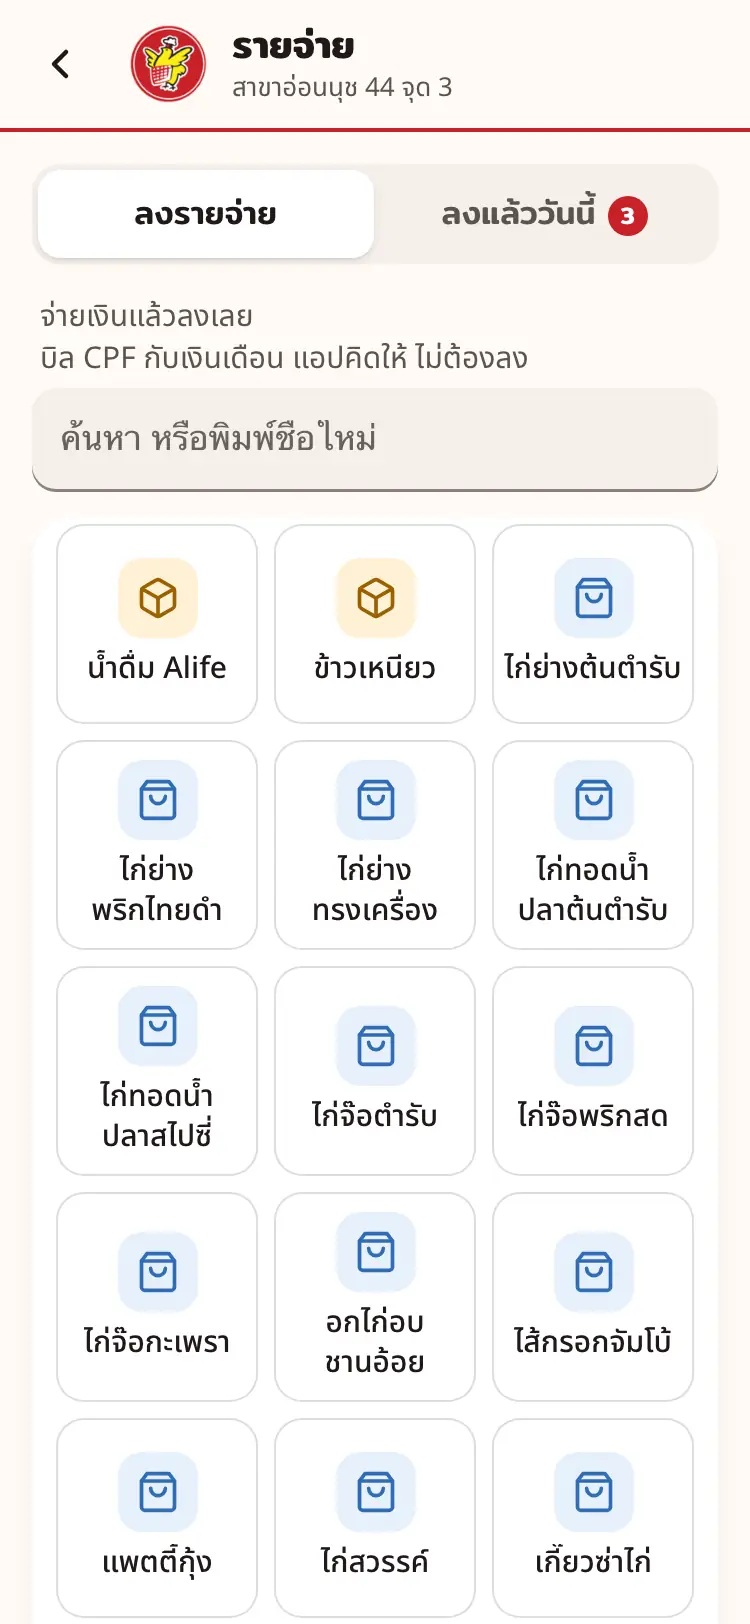
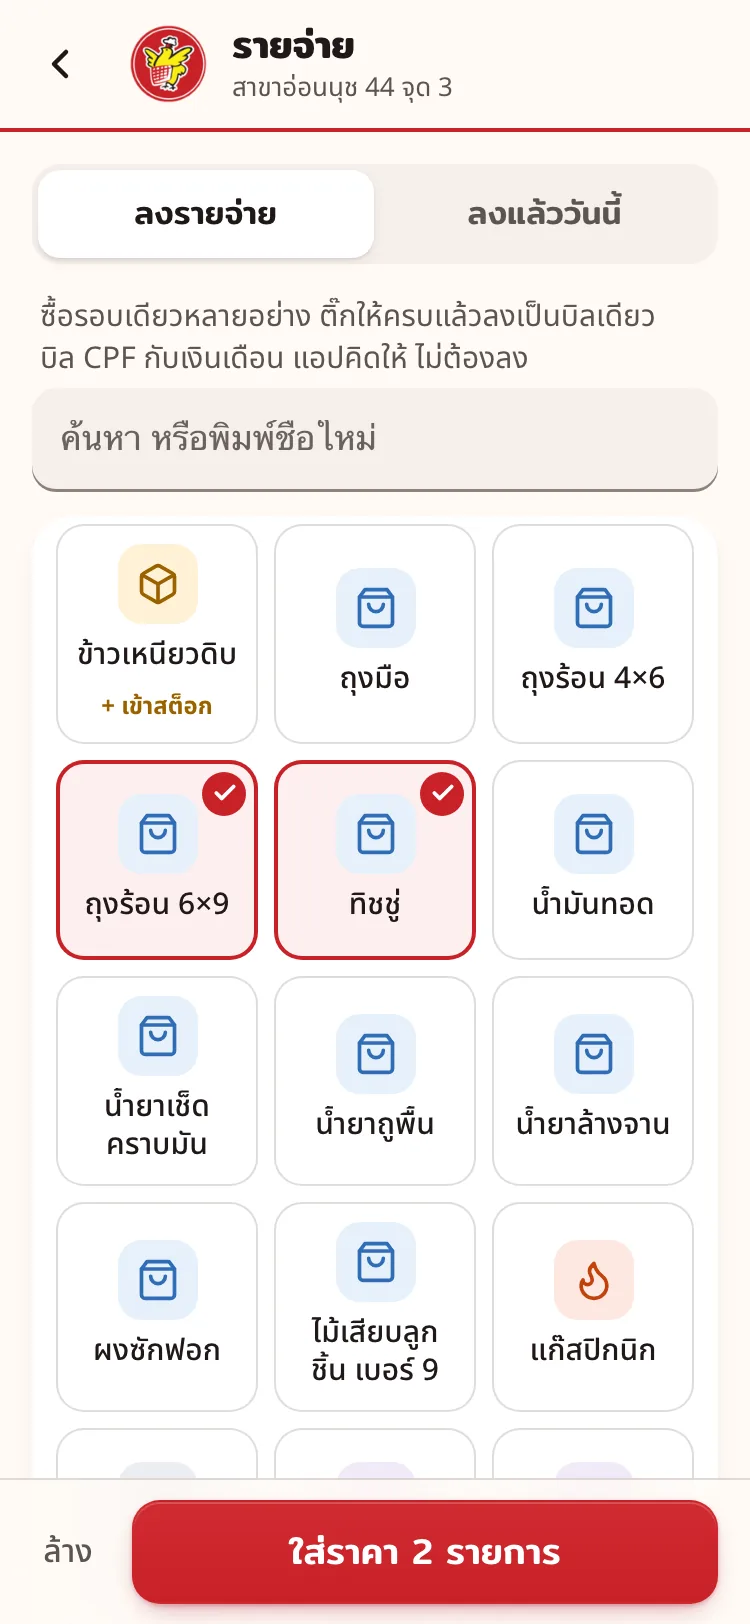
demo + version: rebuild from 7632075

diff --git a/demo/expense.html b/demo/expense.html
@@ -83,6 +83,44 @@
 .only { display: flex; align-items: center; justify-content: space-between; gap: 8px; margin: 0 4px 8px; font-size: 14px; color: var(--color-ink-soft); }
 .only button { min-height: 44px; padding: 0 4px; border: 0; background: none; font: 500 14px/1 var(--font-body); color: var(--color-primary-dark); cursor: pointer; }
 .go-costs { margin-top: 10px; }
+
+/* bill round (Mos 5 พ.ย.): things bought in one trip = one bill · tick tiles → one sheet, a price each, one slip */
+#items .it.tile, .recent button { position: relative; }
+#items .it.tile[aria-pressed=true], .recent button[aria-pressed=true] { box-shadow: inset 0 0 0 2px var(--color-primary); background: var(--tint-primary); }
+.tk { position: absolute; top: 6px; right: 6px; display: none; place-items: center; width: 22px; height: 22px; border-radius: 50%; color: #fff; background: var(--color-primary); }
+.tk svg { width: 13px; height: 13px; }
+[aria-pressed=true] > .tk { display: grid; }
+.recent button .tk { top: -5px; right: -5px; }
+.recent .row { padding-top: 6px; }
+body.picking #pNew { padding-bottom: 96px; }
+.pickbar { position: fixed; left: 0; right: 0; bottom: 0; z-index: 5; display: flex; align-items: center; gap: 4px; padding: 10px 16px calc(10px + env(safe-area-inset-bottom)) 6px; border-top: .5px solid var(--color-separator); background: color-mix(in srgb, var(--color-background) 86%, transparent); -webkit-backdrop-filter: blur(18px) saturate(160%); backdrop-filter: blur(18px) saturate(160%); }
+.pickbar[hidden] { display: none; }
+.pickbar .clr { flex: none; min-width: 56px; height: 48px; border: 0; background: none; font: 500 16px/1 var(--font-body); color: var(--color-ink-soft); cursor: pointer; }
+.pickbar .btn { flex: 1; margin: 0; }
+.lns .ln { display: grid; grid-template-columns: 40px minmax(0, 1fr) 124px; align-items: center; gap: 8px 10px; padding: 10px 0; }
+.lns.multi .ln { grid-template-columns: 40px minmax(0, 1fr) 124px 28px; }
+.lns .ln + .ln { border-top: .5px solid var(--color-separator); }
+.ln .nm { min-width: 0; font-weight: 500; line-height: 1.3; }
+.ln .nm small { display: block; font-size: 13px; font-weight: 400; color: var(--color-ink-soft); font-variant-numeric: tabular-nums; }
+.ln .in { margin: 0; }
+.ln .in.q { grid-column: 2 / 4; }
+.ln .in.q::before { content: attr(data-l); flex: 1; padding-left: 14px; font-size: 15px; color: var(--color-ink-soft); white-space: nowrap; }
+.ln .in.q > input { flex: none; width: 64px; }
+.ln .rm { width: 28px; height: 44px; padding: 0; border: 0; background: none; font-size: 16px; color: var(--color-ink-soft); cursor: pointer; }
+.ln .cats { grid-column: 2 / -1; margin: 0; }
+.tot2 { display: flex; justify-content: space-between; align-items: baseline; margin-top: 4px; padding: 12px 0 0; border-top: 1.5px solid var(--color-foreground); font: 600 17px/1.3 var(--font-head); font-variant-numeric: tabular-nums; }
+.tot2 b { font-size: 26px; line-height: 1.15; }
+.tot2[hidden] { display: none; }
+#es .slip { margin-top: 14px; }
+#es .slip.need { box-shadow: inset 0 0 0 1.5px var(--color-primary); color: var(--color-primary-dark); background: var(--tint-primary); }
+#phH { margin: 6px 0 0; font-size: 14px; }
+.bill { margin: 6px -8px; padding: 0 8px; border-radius: 14px; background: var(--color-fill); }
+.bill .it + .it { border-top: .5px solid var(--color-separator); }
+.bill + .it { border-top: 0; }
+.billf { display: flex; align-items: center; gap: 8px; min-height: 44px; border-top: .5px solid var(--color-separator); font-size: 14px; color: var(--color-ink-soft); font-variant-numeric: tabular-nums; }
+.billf span { flex: 1; }
+.billf b { font: 600 16px/1.2 var(--font-head); color: var(--color-foreground); }
+.billf a { padding: 12px 0; }
 </style>
 
 
@@ -95,20 +133,21 @@
 <div id="form" class="ld" hidden>
   <div class="tabs" id="tabs" role="tablist" aria-label="รายจ่าย"><button type="button" role="tab" data-t="new" class="on" aria-selected="true">ลงรายจ่าย</button><button type="button" role="tab" data-t="list" aria-selected="false" id="tList">ลงแล้ว<b id="cnt"></b></button></div>
   <div id="pNew" role="tabpanel">
-    <p class="fhint">จ่ายเงินแล้วลงเลย<br>บิล CPF กับเงินเดือน แอปคิดให้ ไม่ต้องลง</p>
+    <p class="fhint">ซื้อรอบเดียวหลายอย่าง ติ๊กให้ครบแล้วลงเป็นบิลเดียว<br>บิล CPF กับเงินเดือน แอปคิดให้ ไม่ต้องลง</p>
     <div class="recent" id="recent" hidden></div>
     <div class="in"><input id="q" type="search" enterkeyhint="search" placeholder="ค้นหา หรือพิมพ์ชื่อใหม่" autocomplete="off" aria-label="ค้นหารายการ"></div>
     <div class="card el" id="items"></div>
   </div>
   <div id="pList" role="tabpanel" hidden></div>
+  <div class="pickbar" id="pb" hidden><button type="button" class="clr" id="pbX">ล้าง</button><button type="button" class="btn primary" id="pbGo"></button></div>
   <dialog id="es" class="bsheet" aria-labelledby="esH"><div class="body"><div class="grab"></div>
     <div class="hd"><b id="esH"></b><button class="x" type="button" aria-label="ปิด">✕</button></div>
-    <div id="fCat" hidden><label class="fl">หมวด</label><div class="cats" id="cats"></div></div>
-    <div id="fQty" hidden><label class="fl" for="qty" id="qtyL">ได้มากี่</label><div class="in"><input id="qty" type="number" inputmode="decimal" placeholder="0"><span class="sfx" id="qtyU"></span></div></div>
-    <label class="fl" for="amt">ยอดเงิน</label><div class="in"><input id="amt" type="number" inputmode="decimal" placeholder="0"><span class="sfx">บาท</span></div><p id="amtH" class="muted" hidden>ยอดครั้งก่อน ใส่ไว้ให้ แก้ได้</p>
+    <div class="lns" id="lns"></div>
+    <div class="tot2" id="tot" hidden><span>รวมทั้งบิล</span><span><b id="totN">0</b> บาท</span></div>
     <label class="fl">จ่ายด้วย</label><div class="seg" id="paid"><button type="button" data-p="cash">เงินสดหน้าร้าน</button><button type="button" data-p="owner">เจ้าของโอนจ่าย</button></div>
     <div id="fDate" hidden><label class="fl" for="dt">วันที่จ่าย</label><input id="dt" type="date"></div>
-    <label class="btn" style="margin-top:14px"><svg viewBox="0 0 24 24" fill="none" stroke="currentColor" stroke-width="2" stroke-linecap="round" stroke-linejoin="round" aria-hidden="true"><path d="M14.5 4h-5L7 7H4a2 2 0 0 0-2 2v9a2 2 0 0 0 2 2h16a2 2 0 0 0 2-2V9a2 2 0 0 0-2-2h-3l-2.5-3z"/><circle cx="12" cy="13" r="3"/></svg>ถ่ายรูปใบเสร็จ (ไม่บังคับ) <input id="ph" type="file" accept="image/*" capture="environment" hidden></label>
+    <label class="btn slip" id="phL"><svg viewBox="0 0 24 24" fill="none" stroke="currentColor" stroke-width="2" stroke-linecap="round" stroke-linejoin="round" aria-hidden="true"><path d="m21.44 11.05-9.19 9.19a6 6 0 0 1-8.49-8.49l8.57-8.57A4 4 0 1 1 18 8.84l-8.59 8.57a2 2 0 0 1-2.83-2.83l8.49-8.48"/></svg><span id="phT"></span><input id="ph" type="file" accept="image/*" hidden></label>
+    <p id="phH" class="muted"></p>
     <p id="phS" class="muted"></p></div>
     <div class="foot"><button id="save" class="btn primary" type="button">บันทึกรายจ่าย</button><p id="msg" class="muted"></p></div></dialog>
 </div>
@@ -168,47 +207,81 @@
     // ลงล่าสุด: the last 4 used on this phone, with the amount paid last time
     const L = last(), rc = Object.entries(L).sort((a, b) => b[1].t - a[1].t).map(([k, v]) => [ITEMS.find((x) => keyOf(x) === k), v]).filter(([x]) => x).slice(0, 4);
     recent.hidden = !!t || !rc.length;
+    setTimeout(mark);
     recent.innerHTML = rc.length ? `<h3>ลงล่าสุด</h3><div class="row">${rc.map(([x, v]) => `<button type="button" data-k="${ITEMS.indexOf(x)}">${ci(x.cat)}<span><b>${esc(x.name)}</b><small>${baht(v.a)}</small></span></button>`).join("")}</div>` : "";
   };
   q.oninput = draw;
-  recent.onclick = (e) => { const b = e.target.closest("[data-k]"); if (b) open(ITEMS[+b.dataset.k]); };
 
-  // ---- the sheet: one expense
+  // ---- the sheet: one bill = everything ticked, a price each, one pay source, one slip (Mos 5 พ.ย.)
   const sheet = UXD.sheet(es), photo = [];
-  Photo.picker(supabase, ph, { paths: photo, type: "expense", name: "รูปใบเสร็จ", max: 1, status: phS });
-  let cur = null, cat = null, paidBy = null;
-  const pick = (p) => { paidBy = p; paid.querySelectorAll("button").forEach((b) => { b.classList.toggle("on-ok", b.dataset.p === p); b.setAttribute("aria-pressed", b.dataset.p === p); }); };
-  paid.onclick = (e) => { const b = e.target.closest("[data-p]"); if (b) pick(b.dataset.p); };
-  const pickCat = (c) => { cat = c; cats.querySelectorAll("button").forEach((b) => { b.classList.toggle("on", b.dataset.c === c); b.setAttribute("aria-pressed", b.dataset.c === c); }); };
-  cats.innerHTML = KEYS.filter((k) => k !== "fee").map((k) => `<button type="button" class="chip" data-c="${k}" aria-pressed="false">${CAT[k]}</button>`).join(""); // round 3 พ.ย. (Mos): the 7-11 fee comes from หน้าฝากเงิน by itself · no fee chip here
-  cats.onclick = (e) => { const b = e.target.closest("[data-c]"); if (b) pickCat(b.dataset.c); };
-  if (OWN) { fDate.hidden = false; dt.max = UXS.today(); dt.value = bday; UXM.dateTh(dt); }
-  const open = (x) => {
-    cur = x; esH.textContent = x.name; fCat.hidden = !x.isNew; fQty.hidden = !x.count;
-    qtyL.textContent = `ได้มากี่${x.unit || "หน่วย"}`; qtyU.textContent = x.unit || "";
-    pickCat(x.isNew ? null : x.cat); pick(OWN ? "owner" : "cash");   // staff mostly pay from the drawer, the owner by transfer · one tap to change
-    const l = last()[keyOf(x)]; qty.value = ""; amt.value = l ? l.a : ""; amtH.hidden = !l; msg.textContent = ""; msg.className = "muted";
-    es.querySelectorAll(".thumb .x").forEach((b) => b.click());
-    sheet.open();
+  // gallery (owner only): his transfer slip is a bank-app screenshot, so the photo library is allowed (same as the CPF pay slip, 0092)
+  // staff pay from the drawer → still a photo taken now (an old receipt can't be reused)
+  Photo.picker(supabase, ph, { paths: photo, type: "expense", name: "รูปหลักฐาน", max: 1, status: phS, gallery: OWN, onChange: (ps) => { phH.hidden = !!ps.length; phL.classList.remove("need"); } });
+  const CHK = '<i class="tk" aria-hidden="true"><svg viewBox="0 0 24 24" fill="none" stroke="currentColor" stroke-width="3.5" stroke-linecap="round" stroke-linejoin="round"><path d="M20 6 9 17l-5-5"/></svg></i>';
+  let sel = [], paidBy = null; const vals = {}; // vals: what was typed per item, kept while the sheet is closed
+  const isSel = (x) => sel.some((s) => keyOf(s) === keyOf(x));
+  const mark = () => {
+    document.querySelectorAll("#items [data-k], #recent [data-k]").forEach((b) => { b.setAttribute("aria-pressed", isSel(ITEMS[+b.dataset.k])); if (!b.querySelector(".tk")) b.insertAdjacentHTML("beforeend", CHK); });
+    pb.hidden = !sel.length; document.body.classList.toggle("picking", !!sel.length);
+    pbGo.textContent = sel.length === 1 ? `ใส่ราคา ${sel[0].name}` : `ใส่ราคา ${sel.length} รายการ`;
   };
-  items.onclick = (e) => { const b = e.target.closest(".it"); if (!b) return; if (b.dataset.focus) { q.focus(); q.placeholder = "พิมพ์ชื่อรายการใหม่"; return; } open(b.dataset.new ? { name: q.value.trim(), isNew: true } : ITEMS[+b.dataset.k]); };
-  const bad = (t, el) => { msg.textContent = t; msg.className = "err"; if (el) UXM.shake(el); };
+  const toggle = (x) => { sel = isSel(x) ? sel.filter((s) => keyOf(s) !== keyOf(x)) : [...sel, x]; mark(); };
+  pbX.onclick = () => { sel = []; mark(); fresh(); };
+  const pick = (p) => { paidBy = p; paid.querySelectorAll("button").forEach((b) => { b.classList.toggle("on-ok", b.dataset.p === p); b.setAttribute("aria-pressed", b.dataset.p === p); });
+    // Mos 6 พ.ย.: every expense carries proof · the owner's own transfer = the slip · anything else = the receipt,
+    // and where a market stall gives no paper, a photo of what was bought
+    phT.textContent = slip() ? "แนบสลิปโอนเงิน" : OWN ? "แนบใบเสร็จ" : "ถ่ายใบเสร็จ"; phL.classList.remove("need");
+    phH.textContent = slip() ? "ถ่ายใหม่ หรือเลือกรูปในเครื่องก็ได้" : "ไม่มีใบเสร็จ ถ่ายของที่ซื้อแทนได้"; };
+  const slip = () => OWN && paidBy === "owner";
+  // a new bill starts clean: the slip and the pay choice belong to one bill, and stay while its sheet is closed to tick one more thing
+  const fresh = () => { paidBy = null; es.querySelectorAll(".thumb .x").forEach((b) => b.click()); };
+  paid.onclick = (e) => { const b = e.target.closest("[data-p]"); if (b) pick(b.dataset.p); };
+  if (OWN) { fDate.hidden = false; dt.max = UXS.today(); dt.value = bday; UXM.dateTh(dt); }
+  const total = () => { const t = sel.reduce((s, x) => s + (+vals[keyOf(x)]?.a || 0), 0); totN.textContent = t.toLocaleString("th-TH", { maximumFractionDigits: 2 }); tot.hidden = sel.length < 2;
+    save.textContent = sel.length > 1 ? `บันทึก ${sel.length} รายการ` : "บันทึกรายจ่าย"; };
+  const lines = () => {
+    esH.textContent = sel.length === 1 ? sel[0].name : `ลงรายจ่าย ${sel.length} รายการ`;
+    lns.innerHTML = sel.map((x, i) => { const k = keyOf(x), l = last()[k], v = (vals[k] ||= { a: l ? l.a : "", q: "", cat: x.isNew ? null : x.cat });
+      return `<div class="ln" data-i="${i}">${ci(v.cat || "new")}<span class="nm">${esc(x.name)}${l ? `<small>ครั้งก่อน ${baht(l.a)}</small>` : ""}</span>`
+        + `<div class="in"><input class="a" type="number" inputmode="decimal" placeholder="0" value="${v.a}" aria-label="ราคา ${esc(x.name)}"><span class="sfx">บาท</span></div>`
+        + (sel.length > 1 ? `<button type="button" class="rm" aria-label="เอา ${esc(x.name)} ออกจากบิล">✕</button>` : "")
+        + (x.count ? `<div class="in q" data-l="ได้มากี่${x.unit || "หน่วย"} เข้าสต็อก"><input class="qy" type="number" inputmode="decimal" placeholder="0" value="${v.q}" aria-label="จำนวน ${esc(x.name)}"><span class="sfx">${x.unit || ""}</span></div>` : "")
+        + (x.isNew ? `<div class="cats">${KEYS.filter((c) => c !== "fee").map((c) => `<button type="button" class="chip${v.cat === c ? " on" : ""}" data-c="${c}" aria-pressed="${v.cat === c}">${CAT[c]}</button>`).join("")}</div>` : "") + `</div>`; }).join("");
+    lns.classList.toggle("multi", sel.length > 1); total();
+  };
+  lns.oninput = (e) => { const r = e.target.closest(".ln"), v = vals[keyOf(sel[+r.dataset.i])]; if (e.target.classList.contains("a")) v.a = e.target.value; else v.q = e.target.value; total(); };
+  lns.onclick = (e) => { const r = e.target.closest(".ln"); if (!r) return; const x = sel[+r.dataset.i];
+    if (e.target.closest(".rm")) { sel = sel.filter((s) => s !== x); mark(); if (sel.length) lines(); else { sheet.close(); fresh(); } return; }
+    const c = e.target.closest("[data-c]"); if (c) { vals[keyOf(x)].cat = c.dataset.c; lines(); } };
+  const open = () => { if (!paidBy) pick(OWN ? "owner" : "cash");   // staff mostly pay from the drawer, the owner by transfer · one tap to change
+    msg.textContent = ""; msg.className = "muted"; lines(); sheet.open(); };
+  pbGo.onclick = open;
+  recent.onclick = (e) => { const b = e.target.closest("[data-k]"); if (b) toggle(ITEMS[+b.dataset.k]); };
+  items.onclick = (e) => { const b = e.target.closest(".it"); if (!b) return; if (b.dataset.focus) { q.focus(); q.placeholder = "พิมพ์ชื่อรายการใหม่"; return; }
+    // a typed new name joins the bill and opens the sheet at once (it has no tile to untick · ✕ on its line takes it out)
+    if (b.dataset.new) { sel = [...sel, { name: q.value.trim(), isNew: true }]; q.value = ""; draw(); return open(); }
+    toggle(ITEMS[+b.dataset.k]); };
+  const bad = (t, el) => { msg.textContent = t; msg.className = "err"; if (el) { el.scrollIntoView({ block: "center", behavior: "smooth" }); UXM.shake(el); } };
   save.onclick = async () => {
-    if (cur.isNew && !cat) return bad("เลือกหมวดก่อน", cats);
-    if (cur.count && !(+qty.value > 0)) return bad(`ใส่จำนวน${cur.name}ที่ได้มา`, qty);
-    if (!(+amt.value > 0)) return bad("ใส่ยอดเงินที่จ่าย", amt);
-    if (+amt.value > 100000) return bad("ยอดเงินเกิน 100,000 บาท ตรวจตัวเลขอีกครั้ง", amt);
-    const p = { amount: amt.value, paid_by: paidBy, photo: photo[0] || null, ...(OWN && dt.value ? { date: dt.value } : {}) };
-    if (cur.pid) Object.assign(p, { product_id: cur.pid, qty: cur.count ? qty.value : null });
-    else if (cur.iid) p.item_id = cur.iid; else Object.assign(p, { name: cur.name, category: cat });
+    for (const [i, x] of sel.entries()) { const v = vals[keyOf(x)], r = lns.children[i];
+      if (x.isNew && !v.cat) return bad(`เลือกหมวดของ ${x.name}`, r.querySelector(".cats"));
+      if (x.count && !(+v.q > 0)) return bad(`ใส่จำนวน${x.name}ที่ได้มา`, r.querySelector(".in.q"));
+      if (!(+v.a > 0)) return bad(`ใส่ราคา ${x.name}`, r.querySelector(".in"));
+      if (+v.a > 100000) return bad("ยอดเงินเกิน 100,000 บาท ตรวจตัวเลขอีกครั้ง", r.querySelector(".in")); }
+    // ponytail: the proof rule lives in this page only (add_expense_bill accepts no photo) · move it into the function once the rule has settled
+    if (!photo[0]) { phL.classList.add("need"); return bad(slip() ? "แนบสลิปโอนเงินก่อน" : "ถ่ายใบเสร็จก่อน ไม่มีใบเสร็จ ถ่ายของที่ซื้อแทน", phL); }
+    const p = { paid_by: paidBy, photo: photo[0] || null, ...(OWN && dt.value ? { date: dt.value } : {}),
+      lines: sel.map((x) => { const v = vals[keyOf(x)]; return { amount: v.a, ...(x.pid ? { product_id: x.pid, qty: x.count ? v.q : null } : x.iid ? { item_id: x.iid } : { name: x.name, category: v.cat }) }; }) };
     save.disabled = true; msg.textContent = "กำลังบันทึก…"; msg.className = "muted";
-    const { error } = await supabase.rpc("add_expense", { p });
+    const { error } = await supabase.rpc("add_expense_bill", { p });
     save.disabled = false;
     if (error) return bad(App.errText(error));
-    sheet.close(); remember(cur, +amt.value);
-    UXM.toast(cur.count ? `ลง${cur.name}แล้ว ✓ เข้าสต็อก ${+qty.value} ${cur.unit || ""}` : "ลงรายจ่ายแล้ว ✓");
+    sheet.close(); const n = sel.length, sum = sel.reduce((s, x) => s + +vals[keyOf(x)].a, 0), hadNew = sel.some((x) => x.isNew);
+    const one = sel[0], oneQ = +vals[keyOf(one)].q;
+    sel.forEach((x) => { remember(x, +vals[keyOf(x)].a); delete vals[keyOf(x)]; }); sel = []; fresh();
+    UXM.toast(n > 1 ? `ลง ${n} รายการแล้ว ✓ รวม ${baht(sum)}` : one.count ? `ลง${one.name}แล้ว ✓ เข้าสต็อก ${oneQ} ${one.unit || ""}` : "ลงรายจ่ายแล้ว ✓");
     q.value = "";
-    if (cur.isNew) await load();
+    if (hadNew) await load();
     draw(); await list();
   };
 
@@ -216,7 +289,7 @@
   let ym = bday.slice(0, 7), only = null;
   const list = async () => {
     const m0 = ym + "-01", m1 = new Date(Date.UTC(+ym.slice(0, 4), +ym.slice(5, 7), 1)).toISOString().slice(0, 10);
-    let rq = supabase.from("expenses").select("id,date,category,name,qty,amount,paid_by,photo,created_by,created_at,product_id").order("date", { ascending: false }).order("created_at", { ascending: false });
+    let rq = supabase.from("expenses").select("id,date,category,name,qty,amount,paid_by,photo,created_by,created_at,product_id,bill_id").order("date", { ascending: false }).order("created_at", { ascending: false });
     rq = OWN ? rq.gte("date", m0).lt("date", m1) : rq.eq("date", bday);
     const p0 = new Date(Date.UTC(+ym.slice(0, 4), +ym.slice(5, 7) - 2, 1)).toISOString().slice(0, 10);
     const [{ data, error }, day, prev] = await Promise.all([rq, supabase.from("shop_days").select("status").eq("date", bday).maybeSingle(),
@@ -238,11 +311,19 @@
     const feeIds = rows.filter((r) => r.category === "fee").map((r) => r.id);
     const dep = new Set(feeIds.length ? ((await supabase.from("deposits").select("expense_id").in("expense_id", feeIds)).data || []).map((x) => x.expense_id) : []);
     const can = (r) => !dep.has(r.id) && (OWN ? !(r.qty != null && r.date === bday && sent) : r.created_by === me.userId && !sent); // server re-checks (a stock row of any sent day is refused)
-    const row = (r) => `<div class="it" data-id="${r.id}">${ci(r.category)}<span class="grow"><b>${esc(r.name)}${r.qty != null ? ` ${+r.qty}` : ""}</b><small><span class="pill"${r.paid_by === "cash" ? ' data-tone="ok"' : ""}>${PAY_S[r.paid_by]}</span>${hm(r.created_at)} น.${r.photo ? ` · <a href="#" data-ph="${esc(r.photo)}">ดูใบเสร็จ</a>` : ""}${dep.has(r.id) ? ` · <a href="deposit.html">จากหน้าฝากเงิน</a>` : ""}</small></span><span class="amt">${baht(r.amount)}</span>${can(r) ? `<button type="button" class="del" data-del="${r.id}" aria-label="ลบ ${esc(r.name)}">✕</button>` : ""}</div>`;
+    const row = (r) => `<div class="it" data-id="${r.id}">${ci(r.category)}<span class="grow"><b>${esc(r.name)}${r.qty != null ? ` ${+r.qty}` : ""}</b><small><span class="pill"${r.paid_by === "cash" ? ' data-tone="ok"' : ""}>${PAY_S[r.paid_by]}</span>${hm(r.created_at)} น.${r.photo && !inBill(r) ? ` · <a href="#" data-ph="${esc(r.photo)}">ดูใบเสร็จ</a>` : ""}${dep.has(r.id) ? ` · <a href="deposit.html">จากหน้าฝากเงิน</a>` : ""}</small></span><span class="amt">${baht(r.amount)}</span>${can(r) ? `<button type="button" class="del" data-del="${r.id}" aria-label="ลบ ${esc(r.name)}">✕</button>` : ""}</div>`;
+    // a bill = 2+ lines saved together: one tinted block, the slip and the bill total once at its foot
+    const nb = {}; rows.forEach((r) => { if (r.bill_id) nb[r.bill_id] = (nb[r.bill_id] || 0) + 1; });
+    function inBill(r) { return r.bill_id && nb[r.bill_id] > 1; }
+    const blocks = (rs) => { let out = "", i = 0; while (i < rs.length) { const r = rs[i]; if (!inBill(r)) { out += row(r); i++; continue; }
+      const g = []; while (i < rs.length && rs[i].bill_id === r.bill_id) g.push(rs[i++]);
+      const ph = g.find((x) => x.photo)?.photo;
+      out += `<div class="bill">${g.map(row).join("")}<div class="billf"><span>บิลเดียวกัน ${nb[r.bill_id]} รายการ${ph ? ` · <a href="#" data-ph="${esc(ph)}">${r.paid_by === "owner" ? "ดูสลิป" : "ดูใบเสร็จ"}</a>` : ""}</span><b>${baht(rows.filter((x) => x.bill_id === r.bill_id).reduce((s, x) => s + +x.amount, 0))}</b></div></div>`; }
+      return out; };
     let body = "";
     if (!rows.length) body = `<div class="empty"><img class="mascot sm" src="img/mascot-240.png" alt="" width="56" height="56"><p>${OWN ? "เดือนนี้ยังไม่มีรายจ่าย" : "วันนี้ยังไม่มีรายจ่าย"}</p></div>`;
-    else if (OWN) { const g = {}; shown.forEach((r) => (g[r.date] ||= []).push(r)); body = (only ? `<div class="only"><span>แสดงเฉพาะ${CAT[only]}</span><button type="button" data-all="1">ดูทั้งหมด</button></div>` : "") + `<div class="card el">` + Object.entries(g).map(([d, rs]) => `<h3 class="sec day"><span>${UXS.thd(d, { weekday: "short" })}</span><span>${baht(rs.reduce((s, r) => s + +r.amount, 0))}</span></h3>` + rs.map(row).join("")).join("") + `</div>`; }
-    else body = `<div class="card el">${rows.map(row).join("")}</div>`;
+    else if (OWN) { const g = {}; shown.forEach((r) => (g[r.date] ||= []).push(r)); body = (only ? `<div class="only"><span>แสดงเฉพาะ${CAT[only]}</span><button type="button" data-all="1">ดูทั้งหมด</button></div>` : "") + `<div class="card el">` + Object.entries(g).map(([d, rs]) => `<h3 class="sec day"><span>${UXS.thd(d, { weekday: "short" })}</span><span>${baht(rs.reduce((s, r) => s + +r.amount, 0))}</span></h3>` + blocks(rs)).join("") + `</div>`; }
+    else body = `<div class="card el">${blocks(rows)}</div>`;
     pList.innerHTML = nav + head + body; tick();
     pList.querySelectorAll("[data-f], [data-all]").forEach((b) => { b.onclick = () => { only = b.dataset.all || only === b.dataset.f ? null : b.dataset.f; list(); }; });
     if (OWN) { const step = (k) => { const d = new Date(Date.UTC(+ym.slice(0, 4), +ym.slice(5, 7) - 1 + k, 1)); ym = d.toISOString().slice(0, 7); list(); }; mp.onclick = () => step(-1); mn.onclick = () => step(1); }

diff --git a/demo/manual.html b/demo/manual.html
@@ -261,12 +261,12 @@
   <summary><span class="n">7</span><h2>ลงรายจ่าย</h2><span class="ux-go" aria-hidden="true">›</span></summary>
   <div class="mn-in">
     <div class="strip" role="region" tabindex="0" aria-label="ตัวอย่างหน้าจอ ลงรายจ่าย 3 รูป ปัดซ้ายขวาดูรูปถัดไป">
-      <div class="slide"><p class="tag"><span>ลงรายจ่าย</span><i>1/3</i></p><figure class="shot"><img src="img/manual/s-exp-1.webp" alt="หน้ารายจ่าย แท็บลงรายจ่าย ช่องค้นหา และปุ่มรายการสินค้า" width="750" height="1624"></figure><p class="cap2">แตะของที่ซื้อ</p></div>
-      <div class="slide"><p class="tag"><span>ลงรายจ่าย</span><i>2/3</i></p><figure class="shot"><img src="img/manual/s-exp-2.webp" alt="แผ่นกรอกรายจ่าย น้ำดื่ม Alife 90 บาท จ่ายด้วยเงินสดหน้าร้าน" width="750" height="1624"></figure><p class="cap2">ใส่ยอด กดบันทึก</p></div>
-      <div class="slide"><p class="tag"><span>ลงแล้ววันนี้</span><i>3/3</i></p><figure class="shot"><img src="img/manual/s-exp-3.webp" alt="แท็บลงแล้ววันนี้ รวม 530 บาท เงินสดหน้าร้าน 150 เจ้าของโอนจ่าย 380" width="750" height="1624"></figure><p class="cap2">ดูที่ลงแล้ววันนี้</p></div>
+      <div class="slide"><p class="tag"><span>ลงรายจ่าย</span><i>1/3</i></p><figure class="shot"><img src="img/manual/s-exp-1.webp" alt="หน้ารายจ่าย ติ๊กถุงร้อน 6×9 กับทิชชู่ ปุ่มแดงล่าง ใส่ราคา 2 รายการ" width="750" height="1624"></figure><p class="cap2">ติ๊กของที่ซื้อ กดปุ่มแดง</p></div>
+      <div class="slide"><p class="tag"><span>ลงรายจ่าย</span><i>2/3</i></p><figure class="shot"><img src="img/manual/s-exp-2.webp" alt="แผ่นลงรายจ่าย 2 รายการ ถุงร้อน 120 บาท ทิชชู่ 85 บาท รวมทั้งบิล 205 บาท จ่ายด้วยเงินสดหน้าร้าน มีรูปใบเสร็จ" width="750" height="1624"></figure><p class="cap2">ใส่ราคา ถ่ายใบเสร็จ กดบันทึก</p></div>
+      <div class="slide"><p class="tag"><span>ลงแล้ววันนี้</span><i>3/3</i></p><figure class="shot"><img src="img/manual/s-exp-3.webp" alt="แท็บลงแล้ววันนี้ รวม 685 บาท เงินสดหน้าร้าน 205 เจ้าของโอนจ่าย 480 ของบิลเดียวกันอยู่กล่องเดียว" width="750" height="1624"></figure><p class="cap2">ดูที่ลงแล้ววันนี้</p></div>
     </div>
     <p class="swipe">ปัดซ้ายขวาดูรูปถัดไป</p>
-    <p class="hint">เงินสดหน้าร้าน ถูกหักออกจาก "ควรมีในลิ้นชัก" ตอนปิดร้าน<br>บิล CPF กับเงินเดือน แอปคิดให้ ไม่ต้องลง<br>ลงผิด กด ✕ ที่แถวนั้น ลบได้ มีปุ่มเลิกทำ<br>ลบได้เฉพาะรายการของเรา ก่อนปิดร้าน</p>
+    <p class="hint">ซื้อรอบเดียวหลายอย่าง ติ๊กให้ครบ ลงเป็นบิลเดียว รูปเดียว<br>ไม่มีใบเสร็จ ถ่ายของที่ซื้อแทน<br>เงินสดหน้าร้าน ถูกหักออกจาก "ควรมีในลิ้นชัก" ตอนปิดร้าน<br>บิล CPF กับเงินเดือน แอปคิดให้ ไม่ต้องลง<br>ลงผิด กด ✕ ที่แถวนั้น ลบได้ มีปุ่มเลิกทำ<br>ลบได้เฉพาะรายการของเรา ก่อนปิดร้าน</p>
   </div>
 </details>
 
